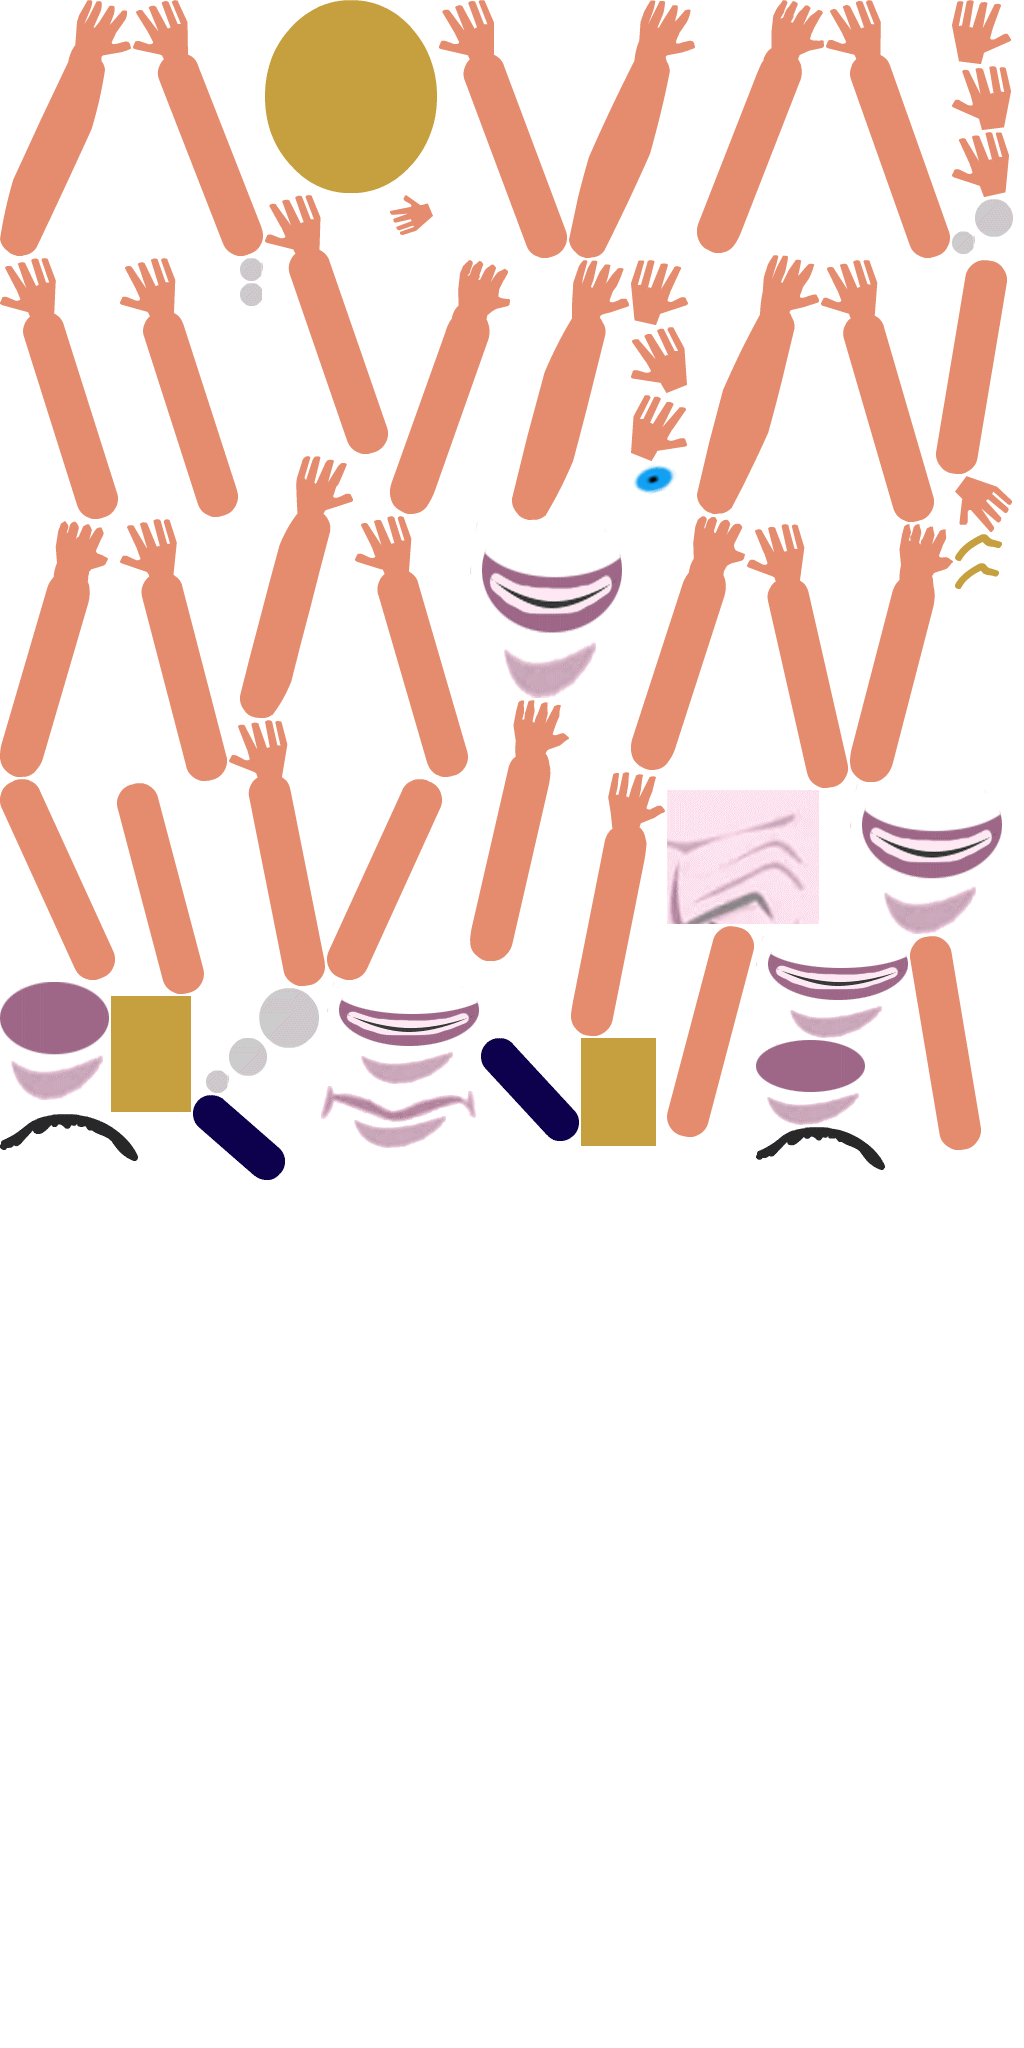
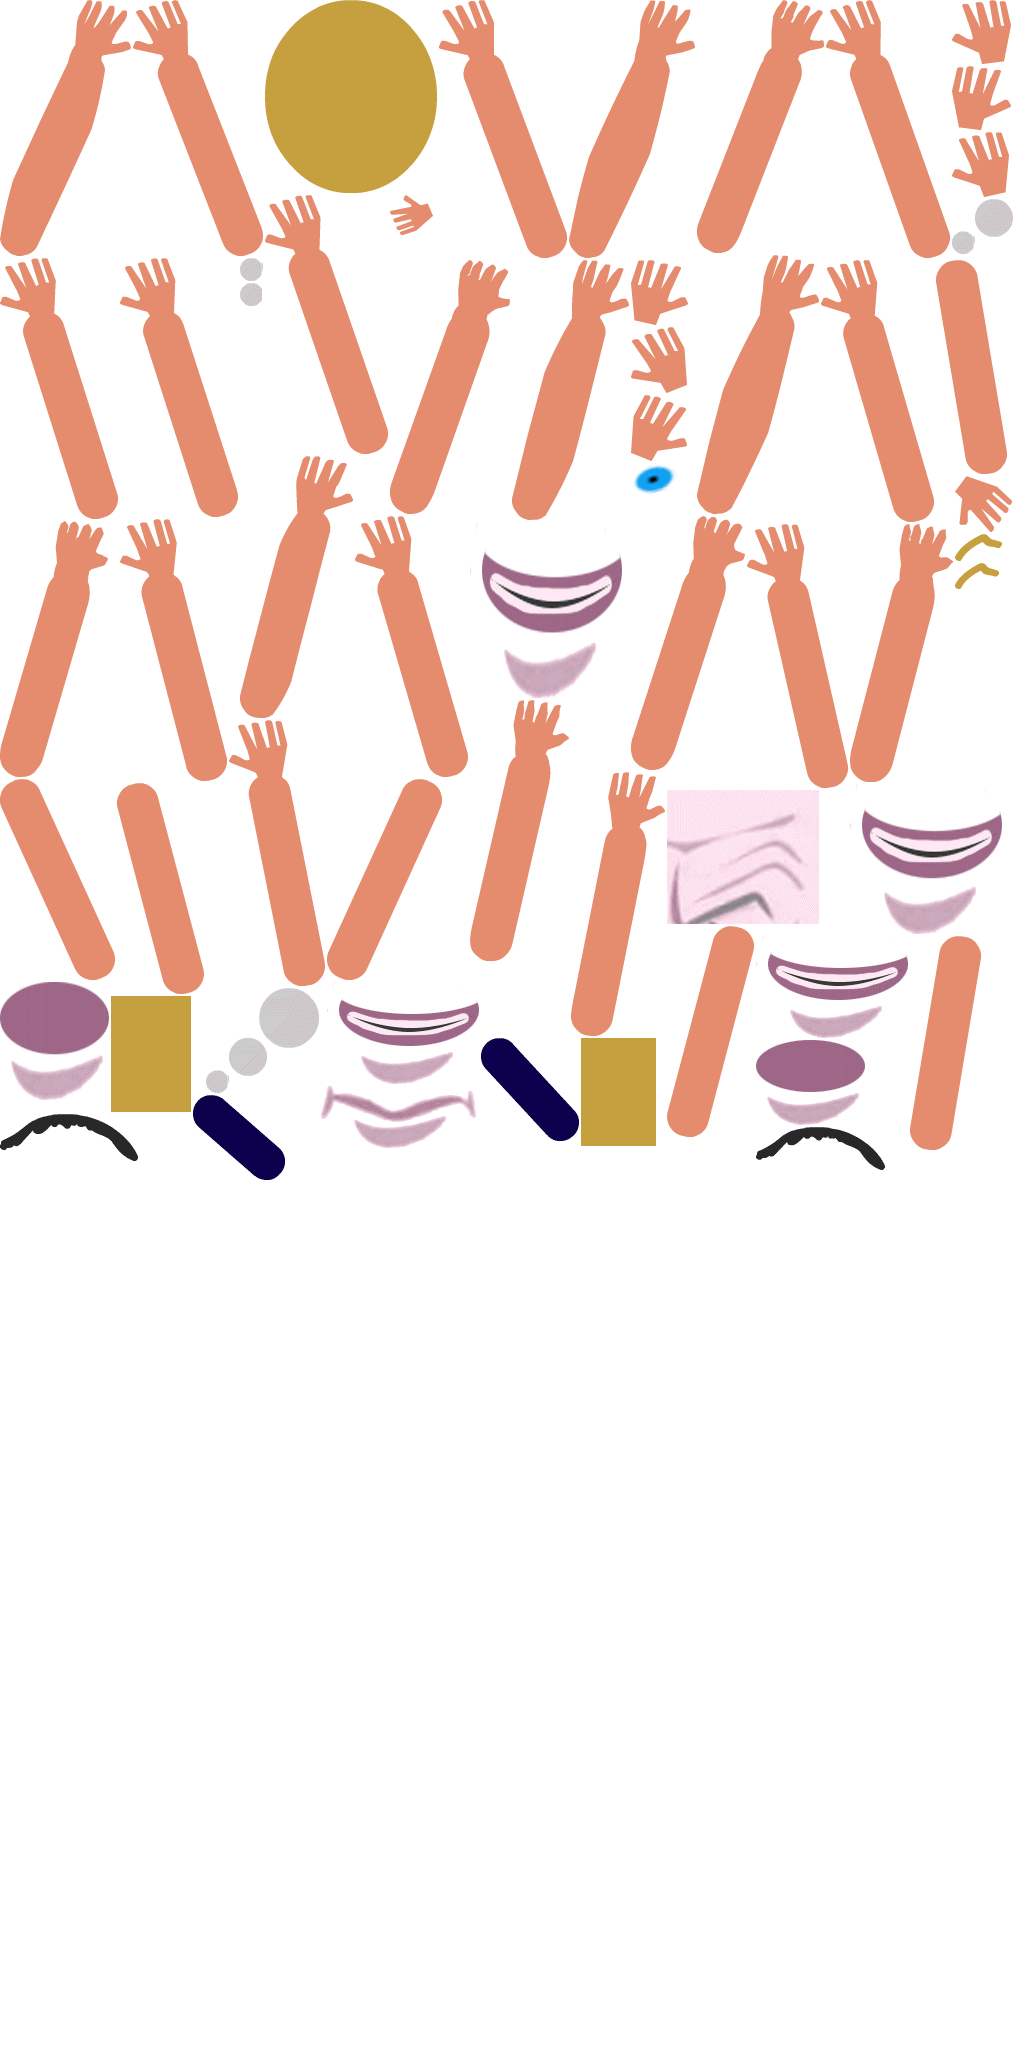
0605

Changed region(s): [[0.9062, 0.125, 1.0, 0.25], [0.875, 0.4375, 0.9688, 0.5625], [0.9062, 0.0, 1.0, 0.0625]]

diff --git a/dornimate.js b/dornimate.js
@@ -7,10 +7,10 @@ lib.ssMetadata = [
 		{name:"dornimate_atlas_2", frames: [[682,0,694,766],[0,788,678,785],[0,0,680,786],[680,788,680,782]]},
 		{name:"dornimate_atlas_3", frames: [[0,769,690,766],[0,0,690,767],[692,779,676,779],[692,0,680,777]]},
 		{name:"dornimate_atlas_4", frames: [[688,770,683,766],[0,775,686,766],[682,0,683,768],[0,0,680,773]]},
-		{name:"dornimate_atlas_5", frames: [[676,771,680,767],[0,771,674,774],[0,0,680,769],[682,0,680,767],[1358,769,680,767],[1364,0,680,767]]},
-		{name:"dornimate_atlas_6", frames: [[1359,771,679,765],[0,769,680,765],[1364,0,677,769],[682,769,675,770],[0,0,680,767],[682,0,680,767]]},
-		{name:"dornimate_atlas_7", frames: [[681,772,479,885],[1410,1742,225,225],[1428,1199,220,222],[678,1742,286,233],[1650,1367,185,207],[0,767,679,765],[0,0,679,765],[681,0,674,770],[1357,0,673,771],[0,1534,366,455],[1188,1742,220,247],[966,1742,220,247],[1867,773,169,305],[678,1659,913,81],[1162,773,341,424],[1650,1135,205,230],[1428,1423,205,230],[1837,1392,136,255],[1857,1135,137,255],[1911,1649,132,257],[1505,773,360,360],[1775,1649,134,254],[1637,1576,136,255],[368,1534,308,400],[1162,1199,264,304]]},
-		{name:"dornimate_atlas_8", frames: [[667,790,152,134],[631,463,47,32],[470,522,152,176],[481,1038,98,103],[667,926,87,211],[631,260,57,65],[240,283,22,23],[206,988,113,105],[952,199,61,55],[240,258,23,23],[111,996,80,116],[955,534,47,27],[0,1114,138,47],[265,0,172,193],[581,1038,75,108],[955,563,44,26],[756,1127,129,43],[910,936,71,214],[952,66,59,64],[229,720,96,266],[747,524,101,264],[120,519,107,262],[355,516,113,261],[120,258,118,259],[826,0,124,258],[133,0,130,256],[0,779,115,201],[631,327,56,66],[439,0,128,258],[265,195,123,259],[0,258,118,261],[821,260,113,262],[390,195,43,40],[117,783,87,211],[952,132,57,65],[936,260,71,214],[952,0,59,64],[571,772,94,264],[470,700,99,261],[850,524,103,258],[0,521,108,256],[631,516,114,254],[390,260,120,254],[697,0,127,253],[193,1095,92,85],[327,779,115,201],[631,395,56,66],[0,0,131,256],[955,476,57,56],[569,0,126,258],[697,255,122,259],[512,260,117,260],[240,456,113,262],[756,936,152,102],[850,784,152,150],[327,982,152,102],[321,1086,155,62],[0,982,109,118],[756,1040,109,85]]}
+		{name:"dornimate_atlas_5", frames: [[0,771,674,774],[0,0,680,769],[1364,0,680,767],[676,771,680,767],[682,0,680,767],[1358,769,680,767]]},
+		{name:"dornimate_atlas_6", frames: [[682,0,680,767],[1359,771,679,765],[0,769,680,765],[1364,0,677,769],[682,769,675,770],[0,0,680,767]]},
+		{name:"dornimate_atlas_7", frames: [[681,772,479,885],[1410,1742,225,225],[1428,1199,220,222],[678,1742,286,233],[1650,1367,185,207],[0,767,679,765],[0,0,679,765],[681,0,674,770],[1357,0,673,771],[0,1534,366,455],[966,1742,220,247],[1188,1742,220,247],[1867,773,169,305],[678,1659,913,81],[1162,773,341,424],[1650,1135,205,230],[1428,1423,205,230],[1837,1392,136,255],[1857,1135,137,255],[1911,1649,132,257],[1505,773,360,360],[1775,1649,134,254],[1637,1576,136,255],[368,1534,308,400],[1162,1199,264,304]]},
+		{name:"dornimate_atlas_8", frames: [[667,790,152,134],[631,463,47,32],[470,522,152,176],[481,1038,98,103],[667,926,87,211],[631,260,57,65],[240,283,22,23],[206,988,113,105],[952,199,61,55],[240,258,23,23],[111,996,80,116],[955,534,47,27],[0,1114,138,47],[265,0,172,193],[581,1038,75,108],[955,563,44,26],[756,1127,129,43],[936,260,71,214],[952,0,59,64],[229,720,96,266],[747,524,101,264],[120,519,107,262],[355,516,113,261],[120,258,118,259],[826,0,124,258],[133,0,130,256],[0,779,115,201],[631,327,56,66],[439,0,128,258],[265,195,123,259],[0,258,118,261],[821,260,113,262],[390,195,43,40],[117,783,87,211],[952,132,57,65],[910,936,71,214],[952,66,59,64],[571,772,94,264],[470,700,99,261],[850,524,103,258],[0,521,108,256],[631,516,114,254],[390,260,120,254],[697,0,127,253],[193,1095,92,85],[327,779,115,201],[631,395,56,66],[0,0,131,256],[955,476,57,56],[569,0,126,258],[697,255,122,259],[512,260,117,260],[240,456,113,262],[756,936,152,102],[850,784,152,150],[327,982,152,102],[321,1086,155,62],[0,982,109,118],[756,1040,109,85]]}
 ];
 
 
@@ -130,36 +130,36 @@ p.nominalBounds = new cjs.Rectangle(0,0,2152,1475);
 
 
 (lib.CachedTexturedBitmap_112 = function() {
-	this.initialize(ss["dornimate_atlas_5"]);
+	this.initialize(ss["dornimate_atlas_6"]);
 	this.gotoAndStop(0);
 }).prototype = p = new cjs.Sprite();
 
 
 
 (lib.CachedTexturedBitmap_113 = function() {
-	this.initialize(ss["dornimate_atlas_6"]);
-	this.gotoAndStop(0);
-}).prototype = p = new cjs.Sprite();
-
-
-
-(lib.CachedTexturedBitmap_114 = function() {
 	this.initialize(ss["dornimate_atlas_7"]);
 	this.gotoAndStop(5);
 }).prototype = p = new cjs.Sprite();
 
 
 
-(lib.CachedTexturedBitmap_115 = function() {
+(lib.CachedTexturedBitmap_114 = function() {
 	this.initialize(ss["dornimate_atlas_7"]);
 	this.gotoAndStop(6);
 }).prototype = p = new cjs.Sprite();
 
 
 
-(lib.CachedTexturedBitmap_116 = function() {
+(lib.CachedTexturedBitmap_115 = function() {
 	this.initialize(ss["dornimate_atlas_6"]);
 	this.gotoAndStop(1);
+}).prototype = p = new cjs.Sprite();
+
+
+
+(lib.CachedTexturedBitmap_116 = function() {
+	this.initialize(ss["dornimate_atlas_6"]);
+	this.gotoAndStop(2);
 }).prototype = p = new cjs.Sprite();
 
 
@@ -222,14 +222,14 @@ p.nominalBounds = new cjs.Rectangle(0,0,2152,1475);
 
 (lib.CachedTexturedBitmap_124 = function() {
 	this.initialize(ss["dornimate_atlas_6"]);
-	this.gotoAndStop(2);
+	this.gotoAndStop(3);
 }).prototype = p = new cjs.Sprite();
 
 
 
 (lib.CachedTexturedBitmap_125 = function() {
 	this.initialize(ss["dornimate_atlas_6"]);
-	this.gotoAndStop(3);
+	this.gotoAndStop(4);
 }).prototype = p = new cjs.Sprite();
 
 
@@ -250,7 +250,7 @@ p.nominalBounds = new cjs.Rectangle(0,0,2152,1475);
 
 (lib.CachedTexturedBitmap_128 = function() {
 	this.initialize(ss["dornimate_atlas_5"]);
-	this.gotoAndStop(1);
+	this.gotoAndStop(0);
 }).prototype = p = new cjs.Sprite();
 
 
@@ -313,28 +313,28 @@ p.nominalBounds = new cjs.Rectangle(0,0,2152,1475);
 
 (lib.CachedTexturedBitmap_136 = function() {
 	this.initialize(ss["dornimate_atlas_5"]);
-	this.gotoAndStop(2);
+	this.gotoAndStop(1);
 }).prototype = p = new cjs.Sprite();
 
 
 
 (lib.CachedTexturedBitmap_137 = function() {
-	this.initialize(ss["dornimate_atlas_5"]);
-	this.gotoAndStop(3);
+	this.initialize(ss["dornimate_atlas_6"]);
+	this.gotoAndStop(5);
 }).prototype = p = new cjs.Sprite();
 
 
 
 (lib.CachedTexturedBitmap_138 = function() {
 	this.initialize(ss["dornimate_atlas_5"]);
-	this.gotoAndStop(4);
+	this.gotoAndStop(2);
 }).prototype = p = new cjs.Sprite();
 
 
 
 (lib.CachedTexturedBitmap_139 = function() {
 	this.initialize(ss["dornimate_atlas_5"]);
-	this.gotoAndStop(5);
+	this.gotoAndStop(3);
 }).prototype = p = new cjs.Sprite();
 
 
@@ -347,14 +347,14 @@ p.nominalBounds = new cjs.Rectangle(0,0,2152,1475);
 
 
 (lib.CachedTexturedBitmap_140 = function() {
-	this.initialize(ss["dornimate_atlas_6"]);
+	this.initialize(ss["dornimate_atlas_5"]);
 	this.gotoAndStop(4);
 }).prototype = p = new cjs.Sprite();
 
 
 
 (lib.CachedTexturedBitmap_141 = function() {
-	this.initialize(ss["dornimate_atlas_6"]);
+	this.initialize(ss["dornimate_atlas_5"]);
 	this.gotoAndStop(5);
 }).prototype = p = new cjs.Sprite();
 
@@ -7788,19 +7788,19 @@ lib.properties = {
 	color: "#FFFFFF",
 	opacity: 1.00,
 	manifest: [
-		{src:"images/CachedTexturedBitmap_1.png", id:"CachedTexturedBitmap_1"},
-		{src:"images/dornimate_atlas_.png", id:"dornimate_atlas_"},
-		{src:"images/dornimate_atlas_2.png", id:"dornimate_atlas_2"},
-		{src:"images/dornimate_atlas_3.png", id:"dornimate_atlas_3"},
-		{src:"images/dornimate_atlas_4.png", id:"dornimate_atlas_4"},
-		{src:"images/dornimate_atlas_5.png", id:"dornimate_atlas_5"},
-		{src:"images/dornimate_atlas_6.png", id:"dornimate_atlas_6"},
-		{src:"images/dornimate_atlas_7.png", id:"dornimate_atlas_7"},
-		{src:"images/dornimate_atlas_8.png", id:"dornimate_atlas_8"},
-		{src:"sounds/Audience_ApplauseMatthiew111206899159.mp3", id:"Audience_ApplauseMatthiew111206899159"},
-		{src:"sounds/SceneBlankFacePhotoshop3onlineaudioconvertercom.mp3", id:"SceneBlankFacePhotoshop3onlineaudioconvertercom"},
-		{src:"sounds/פעילי_כחול_לבן_התעקשו_לשמוח_גם_כשהתברר_הניצחון_של_הימין.mp3", id:"פעילי_כחול_לבן_התעקשו_לשמוח_גם_כשהתברר_הניצחון_של_הימין"},
-		{src:"sounds/ראיון_נדיר_של_ראש_הממשלה_בנימין_נתניהו1.mp3", id:"ראיון_נדיר_של_ראש_הממשלה_בנימין_נתניהו1"}
+		{src:"images/CachedTexturedBitmap_1.png?1557045054313", id:"CachedTexturedBitmap_1"},
+		{src:"images/dornimate_atlas_.png?1557045053755", id:"dornimate_atlas_"},
+		{src:"images/dornimate_atlas_2.png?1557045053755", id:"dornimate_atlas_2"},
+		{src:"images/dornimate_atlas_3.png?1557045053755", id:"dornimate_atlas_3"},
+		{src:"images/dornimate_atlas_4.png?1557045053756", id:"dornimate_atlas_4"},
+		{src:"images/dornimate_atlas_5.png?1557045053756", id:"dornimate_atlas_5"},
+		{src:"images/dornimate_atlas_6.png?1557045053756", id:"dornimate_atlas_6"},
+		{src:"images/dornimate_atlas_7.png?1557045053757", id:"dornimate_atlas_7"},
+		{src:"images/dornimate_atlas_8.png?1557045053758", id:"dornimate_atlas_8"},
+		{src:"sounds/Audience_ApplauseMatthiew111206899159.mp3?1557045054313", id:"Audience_ApplauseMatthiew111206899159"},
+		{src:"sounds/SceneBlankFacePhotoshop3onlineaudioconvertercom.mp3?1557045054313", id:"SceneBlankFacePhotoshop3onlineaudioconvertercom"},
+		{src:"sounds/פעילי_כחול_לבן_התעקשו_לשמוח_גם_כשהתברר_הניצחון_של_הימין.mp3?1557045054313", id:"פעילי_כחול_לבן_התעקשו_לשמוח_גם_כשהתברר_הניצחון_של_הימין"},
+		{src:"sounds/ראיון_נדיר_של_ראש_הממשלה_בנימין_נתניהו1.mp3?1557045054313", id:"ראיון_נדיר_של_ראש_הממשלה_בנימין_נתניהו1"}
 	],
 	preloads: []
 };

diff --git a/dornimate.html b/dornimate.html
@@ -14,7 +14,7 @@
 <title>dornimate</title>
 <!-- write your code here -->
 <script src="https://code.createjs.com/createjs-2015.11.26.min.js"></script>
-<script src="dornimate.js"></script>
+<script src="dornimate.js?1557045054435"></script>
 <script>
 var canvas, stage, exportRoot, anim_container, dom_overlay_container, fnStartAnimation;
 function init() {
